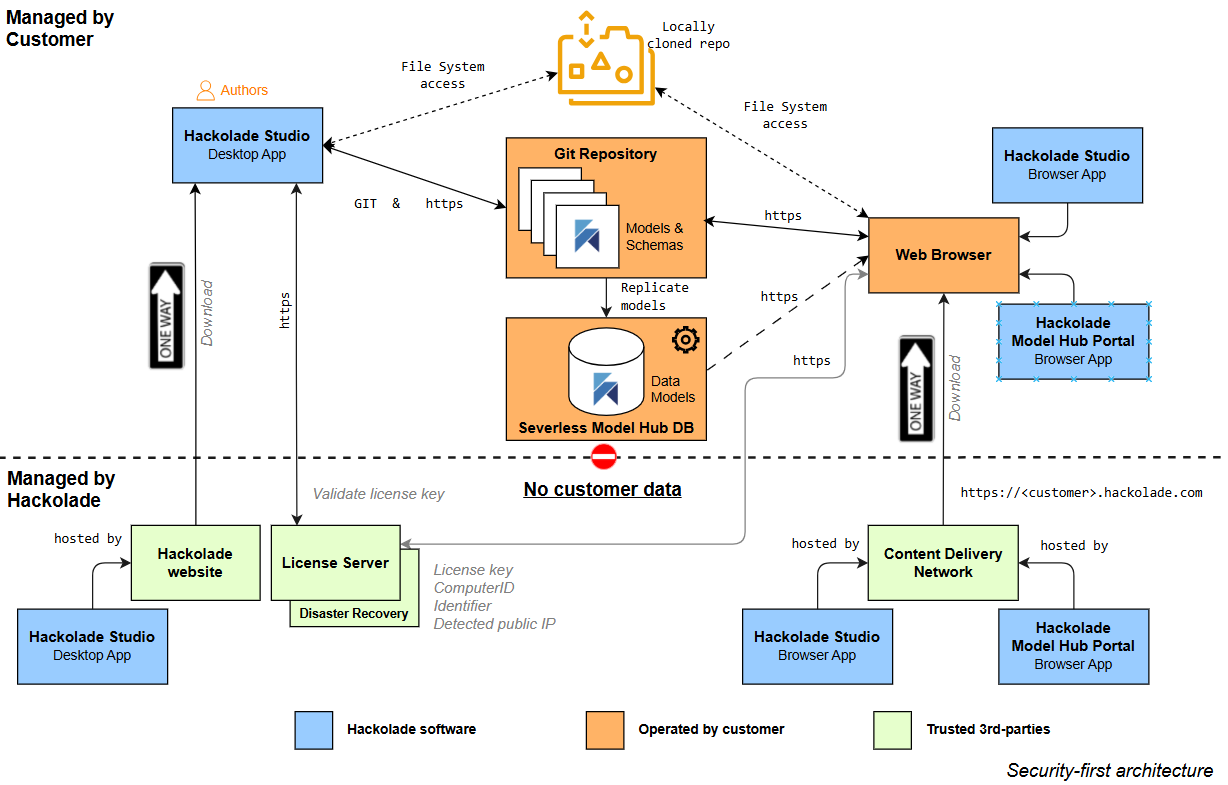
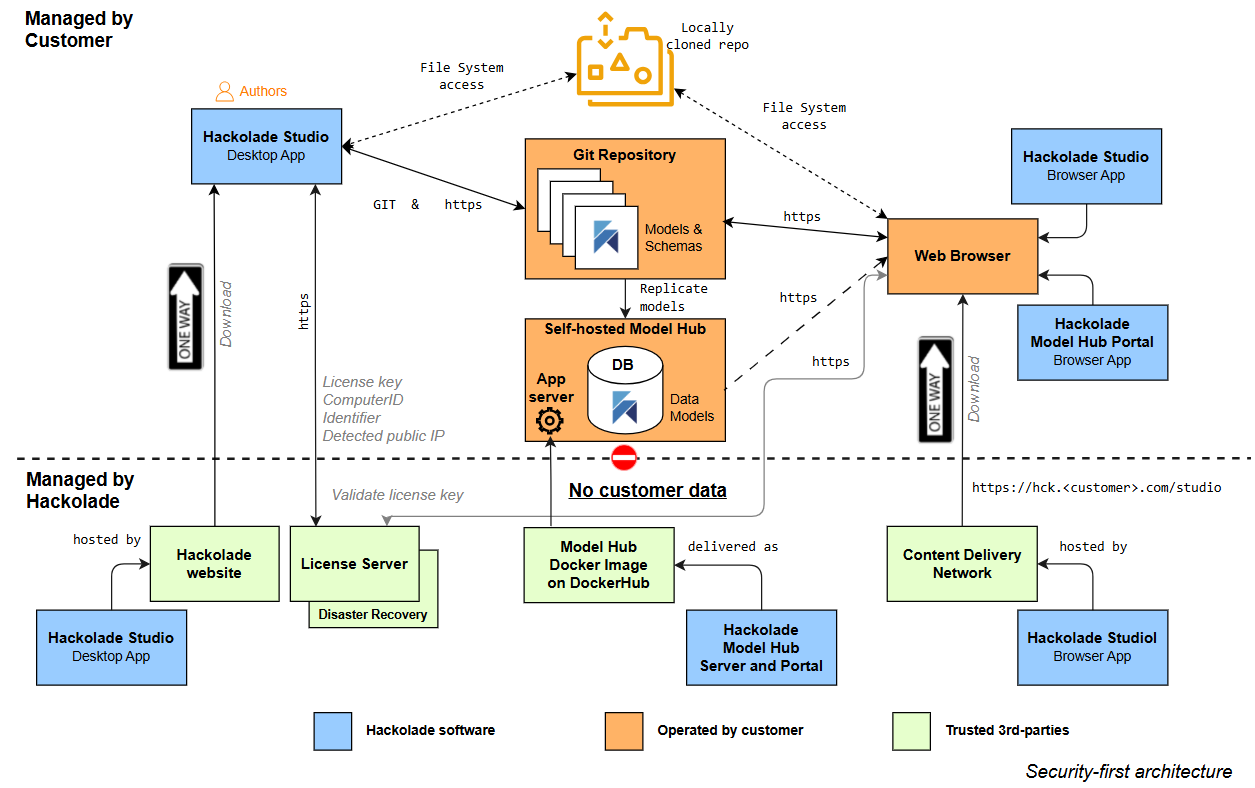
v8.12.9

diff --git a/Studio/ModelHubFAQs.md b/Studio/ModelHubFAQs.md
@@ -84,7 +84,7 @@ Hackolade complements semantic layers by upstreaming data governance and enablin
 
 ### Is the Hub a SaaS product?
 
-Not in the traditionally understood sense of the term.&nbsp; Software-as-a-Service is a popular solution deployment approach.&nbsp; Users don't need to install anything on their machines to access the service - it all runs in the browser.&nbsp; No need to upgrade either.&nbsp; The application always runs the latest version. &nbsp;
+Definitely not.&nbsp; Software-as-a-Service is a popular solution deployment approach.&nbsp; Users don't need to install anything on their machines to access the service - it all runs in the browser.&nbsp; No need to upgrade either.&nbsp; The application always runs the latest version. &nbsp;
 
 &nbsp;
 
@@ -100,11 +100,11 @@ It seems that there would be no perfect solution - just a choice of the least ba
 
 &nbsp;
 
-Instead, Hackolade provides an innovative architecture that combines the advantages of both on-premises and SaaS solutions.&nbsp; The Data Model Hub always runs the latest version of our software in your browser (so you don't need to install, maintain or upgrade it) but you keep 100% percent control of your data.&nbsp; The only traffic coming out of your network is when users validate the license key.
+Instead, Hackolade delivers the Model Hub in a Docker image which is very easy to deploy.&nbsp; The image contains all the necessary pieces to retrieve data models from your Git repositories, and place them in an Oracle 26 ai or PostgreSQL 17+ database instance that you self-host (on-rem, public cloud, or hybrid.)&nbsp; The Model Hub Docker image can be easily and frequently updated and deployed so that you always run the latest version of our software in your browser.&nbsp; You keep 100% percent control of your data.&nbsp; The only traffic coming out of your network is when users validate the license key.
 
 &nbsp;
 
-![Image](<lib/Hub Studio Desktop Browser Architecture.png>)
+![Hub Studio Desktop Browser Architecture](<lib/Hub Studio Desktop Browser Architecture.png>)
 
 &nbsp;
 
@@ -112,7 +112,7 @@ Hackolade has always developed solutions taking into account a security-first pr
 
 &nbsp;
 
-Your data models never leave your control.&nbsp; They are maintained and saved in your Git repository.&nbsp; If you use the Hub, they are replicated into your Hub database, entirely operated by you, but in a low-maintenance autonomous manner.&nbsp; Consult this [Model Hub architecture page](<ModelHubtechnicalarchitecture.md>) for more details.
+Your data models never leave your control.&nbsp; They are maintained and saved in your Git repository.&nbsp; If you use the Model Hub, they are replicated into your Hub database, entirely operated by you, but in a low-maintenance autonomous manner.&nbsp; Consult this [Model Hub architecture page](<ModelHubtechnicalarchitecture.md>) for more details.
 
 &nbsp;
 
@@ -124,7 +124,7 @@ The technical requirements for the Hub are numerous, ambitious, and strict.&nbsp
 
 &nbsp;
 
-No offense to the excellent vendors (which we support in many ways), but currently we only support PostgreSQL v18 or later, and Oracle 26ai Autonomous JSON
+No offense to the excellent vendors (which we support in many ways), but currently we only support PostgreSQL v17 or later, and Oracle 26ai Autonomous JSON
 
 &nbsp;
 

diff --git a/Studio/ModelHubtechnicalarchitecture.md b/Studio/ModelHubtechnicalarchitecture.md
@@ -6,11 +6,11 @@ The Hackolade Model Hub is a&nbsp; product licensed separately from Hackolade St
 
 &nbsp;
 
-![Hub Studio Desktop Browser Architecture](<lib/Hub Studio Desktop Browser Architecture.png>)
+![Image](<lib/Hub Studio Desktop Browser Architecture.png>)
 
 &nbsp;
 
-Hackolade does not host anything: not the database, not the replication agent, and not the portal application.&nbsp; You install the database and replication service on your own cloud account, using a Docker container that we provide on [DockerHub](<https://hub.docker.com/r/hackolade/model-hub> "target=\"\_blank\""). And we publish the application on a [Content Delivery Network](<https://en.wikipedia.org/wiki/Content\_delivery\_network> "Content Delivery Network") like [Azure Front Door](<https://azure.microsoft.com/en-us/products/frontdoor> "Azure Front Door") or [AWS CloudFront](<https://en.wikipedia.org/wiki/Amazon\_CloudFront> "AWS CloudFront"), while you continue to maintain, store, and access your data models inside the network entirely controlled by you.
+Hackolade does not host anything: not the database, not the replication agent, and not the portal application.&nbsp; You install the database and replication service on your own cloud account, using a Docker container that we provide on [DockerHub](<https://hub.docker.com/r/hackolade/model-hub> "target=\"\_blank\""). The image contains the app server and utilisites, plus the portal application. All you need is to connect Model Hub to your own instance Oracle 26ai or PostgreSQL 17+ database, while you continue to maintain, store, and access your data models inside the network entirely controlled by you.
 
 &nbsp;
 
@@ -50,16 +50,9 @@ The secure cloud CDN architecture takes a zero-trust approach to protect against
 
 ## Always run the latest and greatest version of Hackolade Model Hub
 
-With the browser deployment of Hackolade Model Hub, there is no effort necessary to always have access to the latest feature enhancements.
+With the browser deployment of Hackolade Model Hub delivered to you via a Docker containe, there is no effort necessary to always have access to the latest feature enhancements.
 
 &nbsp;
 
-We periodically deliver a new version of the Model Hub with new features and feature enhancements.&nbsp; To make installation and upgrades simple, we deliver the Model Hub in a Docker image and make it available on [DockerHub](<https://hub.docker.com/r/hackolade/model-hub> "target=\"\_blank\"").
+We periodically deliver a new version of the Model Hub with new features and feature enhancements&nbsp; To make installation and upgrades simple, we deliver the Model Hub in a Docker image and make it available on [DockerHub](<https://hub.docker.com/r/hackolade/model-hub> "target=\"\_blank\"").
 
-&nbsp;
-
-## &nbsp;
-
-&nbsp;
-
-## 

diff --git a/Studio/Installandstarttheserver.md b/Studio/Installandstarttheserver.md
@@ -41,7 +41,7 @@ A Model Hub installation is made of standard components, with a secrets vault:
 
 ### Pull images
 
-Each newx version of Model Hub is published on [DockerHub](<https://hub.docker.com/r/hackolade/model-hub> "target=\"\_blank\"").&nbsp; You may specify the version to pull with
+Each new version of Model Hub is published on [DockerHub](<https://hub.docker.com/r/hackolade/model-hub> "target=\"\_blank\"").&nbsp; You may specify the version to pull with
 
 &nbsp;
 
@@ -50,9 +50,9 @@ docker pull hackolade/model-hub:$MODEL\_HUB\_VERSION
 
 &nbsp;
 
-&nbsp;
+The database can be self-standing (installed on a host) or packaged as a container image.&nbsp; The app server and the database can be on separate machines.
 
-The database can be self-standing (installed on a host) or packaged as a container image.
+&nbsp;
 
 ## Quick start with Docker Compose and self-standing PostgreSQL database
 
@@ -333,31 +333,25 @@ Equivalent probes:
 
 &nbsp;
 
-### &#56;. Stop and upgrade
+### &#56;. Upgrade to new Model Hub version
 
-#### Stop (keep the filestore volume)
-
-&nbsp;
-
-> docker compose down
+Always back up the database before upgrading production systems, as described in [Data backup](<Databackup.md>).&nbsp; At least the tables *git\_repositories* and *kvs*.&nbsp;
 
 &nbsp;
 
-**Warning**: do not use the flag to delete volumes, which would delete filestore data.
+&#49;. Note the new *MODEL\_HUB\_VERSION* from the Hackolade release notes.
+
+&#50;. Pull the matching *model-hub* image with the command
 
 &nbsp;
 
-#### Upgrade
+> docker compose pull
 
 &nbsp;
 
-&#49;. Always back up the database before upgrading production systems, as described in [Data backup](<Databackup.md>)
+&#51;. Update *MODEL\_HUB\_VERSION* in your *.env* file&nbsp;
 
-&#50;. Note the new *MODEL\_HUB\_VERSION* from the Hackolade release notes.
-
-&#51;. Pull the matching model-hub image.
-
-&#52;. Update *MODEL\_HUB\_VERSION* in your *.env* file then run
+&#52;. then run
 
 &nbsp;
 
@@ -366,8 +360,6 @@ Equivalent probes:
 &nbsp;
 
 and the application will restart.
-
-&nbsp;
 
 &nbsp;
 

diff --git a/Studio/Databackup.md b/Studio/Databackup.md
@@ -15,17 +15,13 @@ The Model Hub persists state in its state in the database. Back it up regularly,
 
 &nbsp;
 
-## What to back up
-
-### &#49;. SQL database
-
-&nbsp;
+## Backup your Model Hub database instance
 
 Use your organization’s standard backup process for the database engine you chose at install time:
 
 &nbsp;
 
-* **PostgreSQL 18+**: managed snapshots, continuous backup, or *pg\_dump* / *pg\_basebackup* according to DBA standards
+* **PostgreSQL 17+**: managed snapshots, continuous backup, or *pg\_dump* / *pg\_basebackup* according to DBA standards
 * **Oracle 26ai**&nbsp; RMAN, managed backups, or your platform’s equivalent
 
 &nbsp;
@@ -49,13 +45,11 @@ With only these 2 tables, Model Hub will be able to reconstruct the rest by sync
 
 &nbsp;
 
-&nbsp;
-
 ## When to back up
 
 On a regular schedule that matches your recovery objectives (for example daily database backups)
 
-* Before every Model Hub upgrade (new \`$MODEL\_HUB\_VERSION\`)
+* Before every Model Hub upgrade (new *MODEL\_HUB\_VERSION*)
 * Before and after major changes to Git provider configuration or authentication
 * Before destructive maintenance on the database or host
 
@@ -63,11 +57,9 @@ On a regular schedule that matches your recovery objectives (for example daily d
 
 ## Restore overview
 
-&nbsp;
+&#49;. Restore your Model Hub database to a consistent point in time.
 
-&#49;. Restore the SQL database to a consistent point in time.
-
-&#50;. Start the Model Hub.
+&#50;. Start Model Hub.
 
 &#51;. Confirm:
 

diff --git a/Studio/ModelHubprerequisites.md b/Studio/ModelHubprerequisites.md
@@ -83,7 +83,7 @@ The data models maintained in the customer’s Git repository must be replicated
 
 Model Hub stores most of its application data in a relational SQL database and currently supports:
 
-* PostgreSQL 18 or later
+* PostgreSQL 17 or later
 * Oracle Database 23ai or 26ai
 
 &nbsp;

diff --git a/Studio/WhylegacyandSaaSdatamodelingarch.md b/Studio/WhylegacyandSaaSdatamodelingarch.md
@@ -138,7 +138,7 @@ The Hackolade Model Hub introduces a modern, lightweight approach to model-drive
 
 &nbsp;
 
-![Hub Studio Desktop Browser Architecture](<lib/Hub Studio Desktop Browser Architecture.png>)
+![Hub Studio Desktop Browser Architecture](<lib/NewItem 38.png>)
 
 &nbsp;
 
